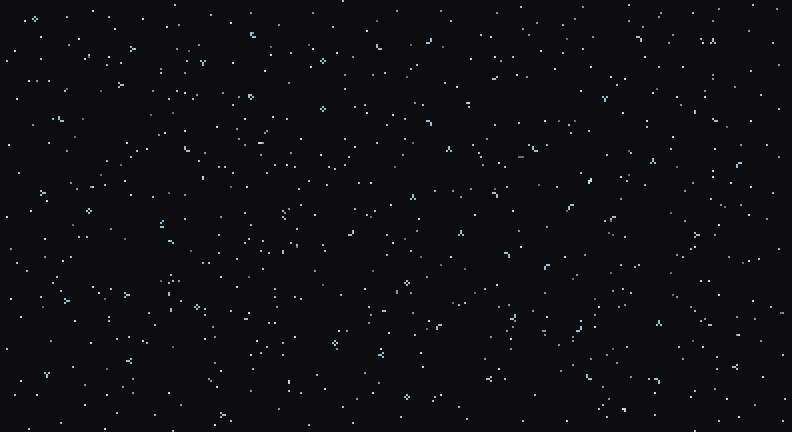
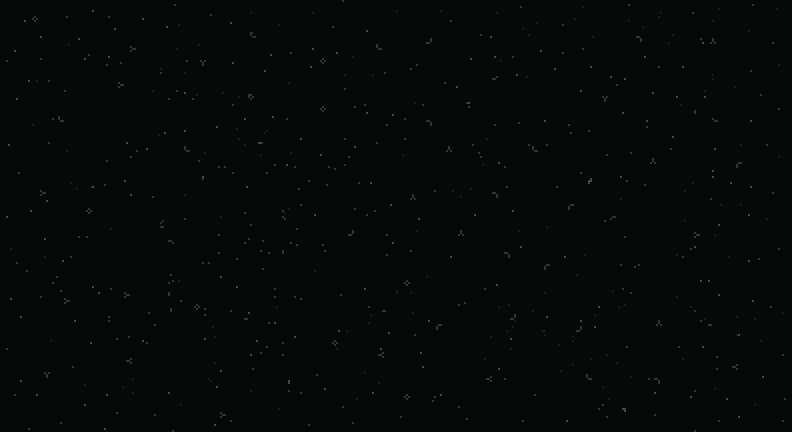
Added a start menu before the actual webapp appears to the user.

diff --git a/css/style.css b/css/style.css
@@ -5,8 +5,125 @@ body {
     background-color: black;
 }
 
-.webapp-main {
+#start-screen {
     display: flex;
+    z-index: 100;
+    background-image: url('../img/webapp-background-v2.png');
+}
+
+#start-screen-container {
+    display: flex;
+    flex-direction: column;
+    width: 100%;
+    height: 100vh;
+    align-items: center;
+    justify-content: center;
+    text-align: center;
+    color: white;
+    font-family: 'Pixelify Sans', sans-serif;
+}
+
+#start-screen-image {
+    width: 100px;
+    height: 100px;
+}
+
+#start-screen-image:hover {
+    transform: scale(1.05);
+}
+
+#start-screen-subtitle {
+    font-size: 20px;
+    margin-top: 10px;
+    
+}
+
+#start-button {
+    width: 200px;
+    border: #ec4926 2px solid;
+    background: none;
+    color: white;
+    border-radius: 10px;
+    opacity: 0.8;
+    transition-duration: 0.5s;
+}
+
+#start-button:hover {
+    cursor: pointer;
+    transform: scale(1.05);
+    opacity: 1;
+    transition-duration: 0.5s;
+}
+
+#start-menu-links {
+    margin-top: 20px;
+    min-width: 250px;
+    
+}
+
+#start-menu-links > a {
+    margin: 30px;
+}
+
+#start-menu-links > a :hover {
+    cursor: pointer;
+    transform: scale(1.05);
+}
+
+#start-menu-links > a > img {
+    width: 32px;
+    height: 32px;
+    filter: invert(100%) sepia(0%) saturate(0%) hue-rotate(0) brightness(100%) contrast(100%);
+}
+
+#more-info-page {
+    background-image: url('../img/webapp-background-v2.png');
+    max-width: 100%;
+    height: 100vh;
+    color: white;
+    display: none;
+}
+
+#more-info-container {
+    display: flex;
+    flex-direction: column;
+    width: 25%;
+    justify-content: center;
+    align-items: center;
+    text-align: center;
+    margin: auto;
+    position: relative;
+    font-family: 'Pixelify Sans', sans-serif;
+}
+
+#more-info-container > h1 {
+    font-size: 50px;
+}
+
+#more-info-container > p {
+    font-size: 20px;
+    margin-top: 5%;
+}
+
+#close-more-info {
+    width: 200px;
+    border: #ec4926 2px solid;
+    background: none;
+    color: white;
+    border-radius: 10px;
+    opacity: 0.8;
+    transition-duration: 0.5s;
+}
+
+#close-more-info:hover {
+    cursor: pointer;
+    transform: scale(1.05);
+    opacity: 1;
+    transition-duration: 0.5s;
+}
+
+.webapp-main {
+    display: none;
     align-items: center;
     overflow-x: hidden;
     overflow-y: hidden;
@@ -538,6 +655,15 @@ body {
     .progress-bar {
         top: 85%;
     }
+    #more-info-container {
+        width: 50%;
+    }
+    #more-info-container > h1 {
+        font-size: 50px;
+    }
+    #more-info-container > p {
+        font-size: 30px;
+    }
 }
 
 /* Normal Monitors */
@@ -548,6 +674,15 @@ body {
     .progress-bar {
         top: 85%;
     }
+    #more-info-container {
+        width: 80%;
+    }
+    #more-info-container > h1 {
+        font-size: 50px;
+    }
+    #more-info-container > p {
+        font-size: 30px;
+    }
 }
 
 /* Small Monitors/laptops */
@@ -557,6 +692,15 @@ body {
     }
     .progress-bar {
         top: 85%;
+    }
+    #more-info-container {
+        width: 80%;
+    }
+    #more-info-container > h1 {
+        font-size: 40px;
+    }
+    #more-info-container > p {
+        font-size: 25px;
     }
 }
 
@@ -570,6 +714,15 @@ body {
     }
     #webapp-main {
         padding-left: 18%;
+    }
+    #more-info-container {
+        width: 80%;
+    }
+    #more-info-container > h1 {
+        font-size: 40px;
+    }
+    #more-info-container > p {
+        font-size: 25px;
     }
 }
 
@@ -587,6 +740,15 @@ body {
     #title {
         text-align: center;
         font-size: 50px;
+    }
+    #more-info-container {
+        width: 80%;
+    }
+    #more-info-container > h1 {
+        font-size: 40px;
+    }
+    #more-info-container > p {
+        font-size: 20px;
     }
 }
 
@@ -611,6 +773,15 @@ body {
     #title {
         font-size: 30px;
         width: 250px;
+    }
+    #more-info-container {
+        width: 80%;
+    }
+    #more-info-container > h1 {
+        font-size: 30px;
+    }
+    #more-info-container > p {
+        font-size: 15px;
     }
 }
 

diff --git a/js/script.js b/js/script.js
@@ -294,9 +294,20 @@ function planetClickDetails(planetDiv, planet) {
     let detailBox = document.getElementById(planet.name.toLowerCase() + "Details");
     let detailCloseButton = document.getElementById(planet.name.toLowerCase() + "CloseButton");
 
+    let quickMenu = document.getElementById("quick-menu");
+
+    let startMenuButton = document.getElementById("start-button");
+    let moreInfoButton = document.getElementById("info-page-button");
+    let moreInfoCloseButton = document.getElementById("close-more-info");
+
+    let startScreen = document.getElementById("start-screen");
+    let webappMain = document.getElementById("webapp-main");
+    let moreInfoPage = document.getElementById("more-info-page");
+
     detailBox.style.display = "none";
     planetDiv.style.display = "flex";
     detailCloseButton.style.display = "none";
+    quickMenu.style.visibility = "hidden";
 
     planetDiv.addEventListener("click", (event) => {
             
@@ -327,6 +338,43 @@ function planetClickDetails(planetDiv, planet) {
             planetDiv.style.display = "none";
             detailCloseButton.style.display = "flex";
             console.log("planet clicked:", planet.name + " Showing details...");
+        }
+    });
+
+    startMenuButton.addEventListener("click", (event) => {
+
+        if (startMenuButton.style.display === "block") {
+            startMenuButton.style.display = "none";
+            quickMenu.style.visibility = "visible";
+            startScreen.style.display = "none";
+            webappMain.style.display = "flex";
+        }
+        else {
+            startMenuButton.style.display = "block";
+            quickMenu.style.visibility = "hidden";
+            startScreen.style.display = "flex";
+            webappMain.style.display = "none";
+        }
+    });
+
+    moreInfoButton.addEventListener("click", (event) => {
+
+        if (moreInfoPage.style.display === "none") {
+            moreInfoPage.style.display = "flex";
+            startScreen.style.display = "none";
+        }
+        else {
+            moreInfoPage.style.display = "none";
+            startScreen.style.display = "flex";
+        }
+    });
+
+    moreInfoCloseButton.addEventListener("click", (event) => {
+
+        if (moreInfoPage.style.display === "flex") {
+            moreInfoPage.style.display = "none";
+            startScreen.style.display = "flex";
+            console.log("Hiding more info page clicked");
         }
     });
 }
@@ -366,9 +414,7 @@ function updateDistanceTravelled() {
     let distanceInKm = distance * 54437; // calculated based the the distance between the sun and the earth
     distanceTravelled.textContent = "Distance Travelled: " + distanceInKm + " km";
     //styling 
-    distanceTravelled.style.color = "#ec4926";
     distanceTravelled.style.textShadow = "2px 2px 3px #000000";
-    distanceTravelled.style.fontFamily = "Reddit Sans, sans-serif";
     distanceTravelled.style.fontSize = "14px";
 })};
 

diff --git a/index.html b/index.html
@@ -23,17 +23,38 @@
 </head>
 <body id="mainPage">
 
-    <div class="webapp-main w-100" id="webapp-main">
 
-        <div class="container" id="welcome-banner">
-            <p id="title">Rocket Explorer</p>
-            <p>Made with <span style="color: #ec4926;">love</span> by c0dev1king</p>
-
-            <div class="row row-cols-2" id="scroll-instructions">
-                <p class="col w-75 pt-2" id="instruction-text">Click & drag or swipe to start exploring</p>
-                <img class="col gx-0" src="img/triple-arrow-right.png" alt="arrow-right" id="arrow-right">
+    <div class="start-screen" id="start-screen">
+        <div class="container row-cols-3" id="start-screen-container">
+            <img id="start-screen-image" src="/img/website-test-icon.png" alt="rocket-icon" id="rocket-icon">
+            <h1 id="start-screen-title">Rocket Explorer</h1>
+            <p id="start-screen-subtitle">Made with <span style="color: #ec4926;">love</span> by c0dev1king</p>
+            <button class="row-2" id="start-button">Start Exploring</button>
+            <div id="start-menu-links">
+                <a href="https://github.com/c0deV1king/rocket-explorer"><img src="/img/github.svg"></a>
+                    <p>Github</p>
+                <a id="info-page-button"><img src="/img/info-circle.svg"></a>
+                    <p>More Info</p>
+                <a href="http://codeviking.io/"><img src="/img/link-45deg.svg"></a>
+                    <p>Portfolio</p>
             </div>
         </div>
+    </div>
+
+    <div class="more-info-page" id="more-info-page">
+        <div id="more-info-container">
+            <h1>What is Rocket Explorer?</h1>
+            <p>An interactive side scrolling webapp, showcasing the most well known planets/moons/stars and man-made objects 
+                such as satellites and rockets. Rocket Explorer is intended to be educational and a learning experince for me, 
+                the creator, but welcomes anyone to enjoy the content and maybe learn something new about the solar system!</p>
+            <p>This is a project created for the bootcamp GetCoding based in east coast Canada with the intention of training me
+                to become a software developer.</p>
+            
+            <button id="close-more-info">Return</button>
+        </div>
+    </div>
+
+    <div class="webapp-main w-100" id="webapp-main">
 
         <div class="progress-bar" id="progress-bar">
             <div class="bar" id="bar"></div>
